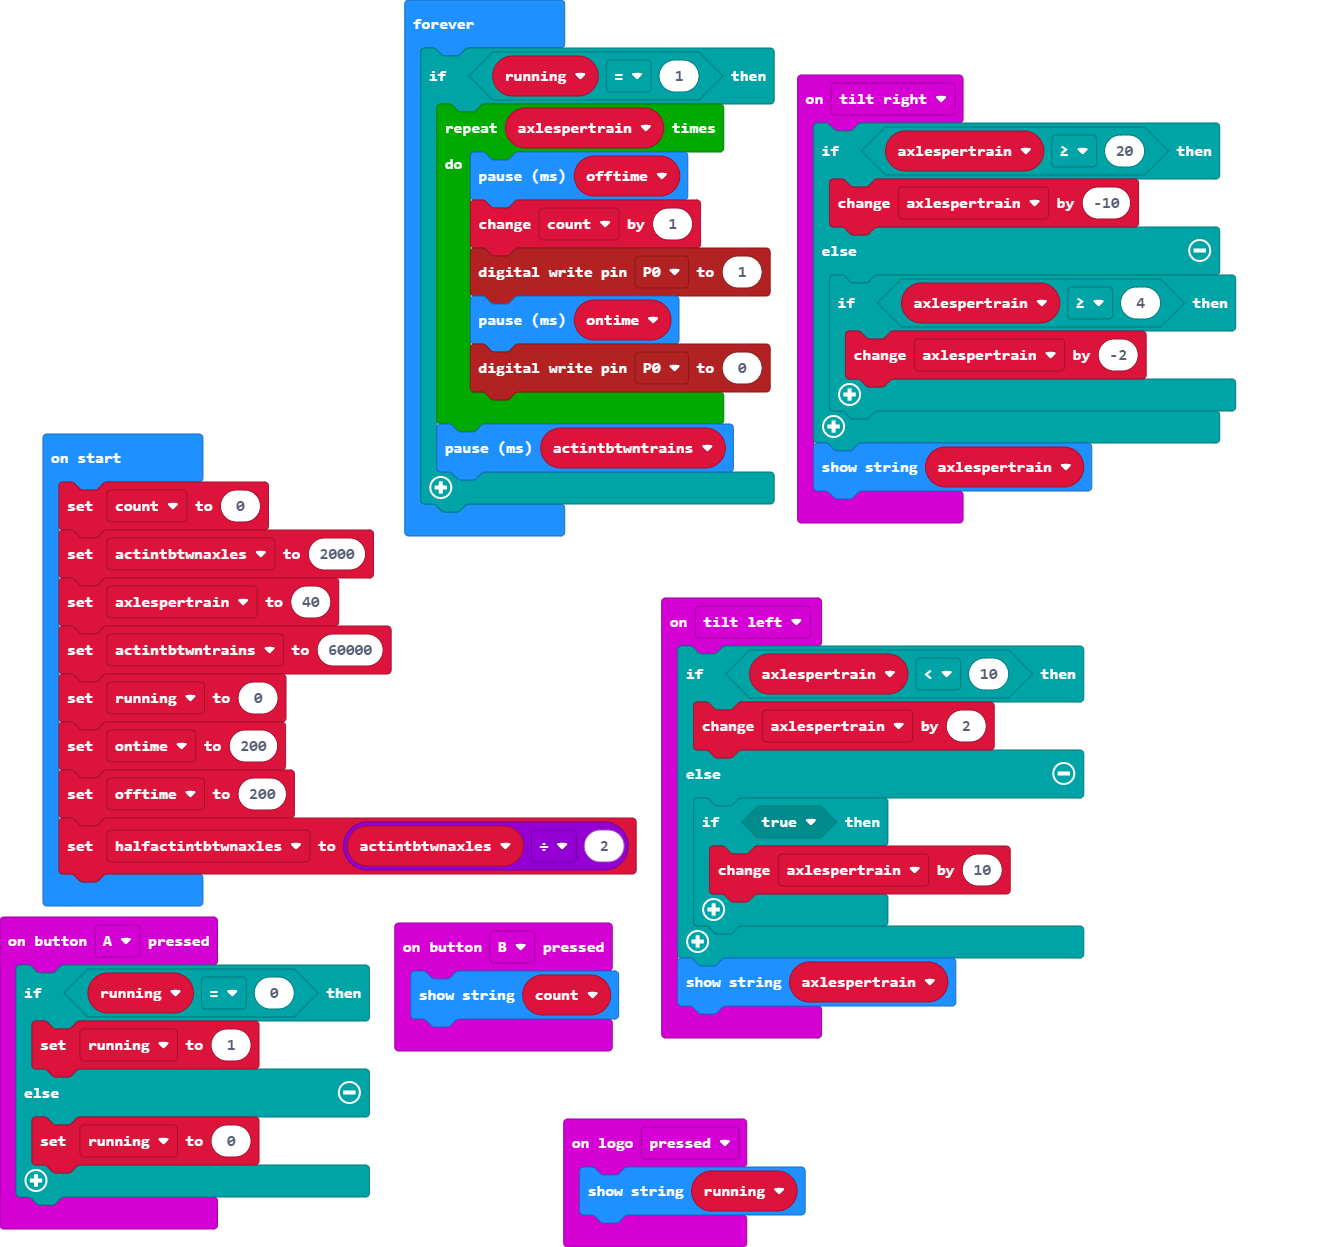
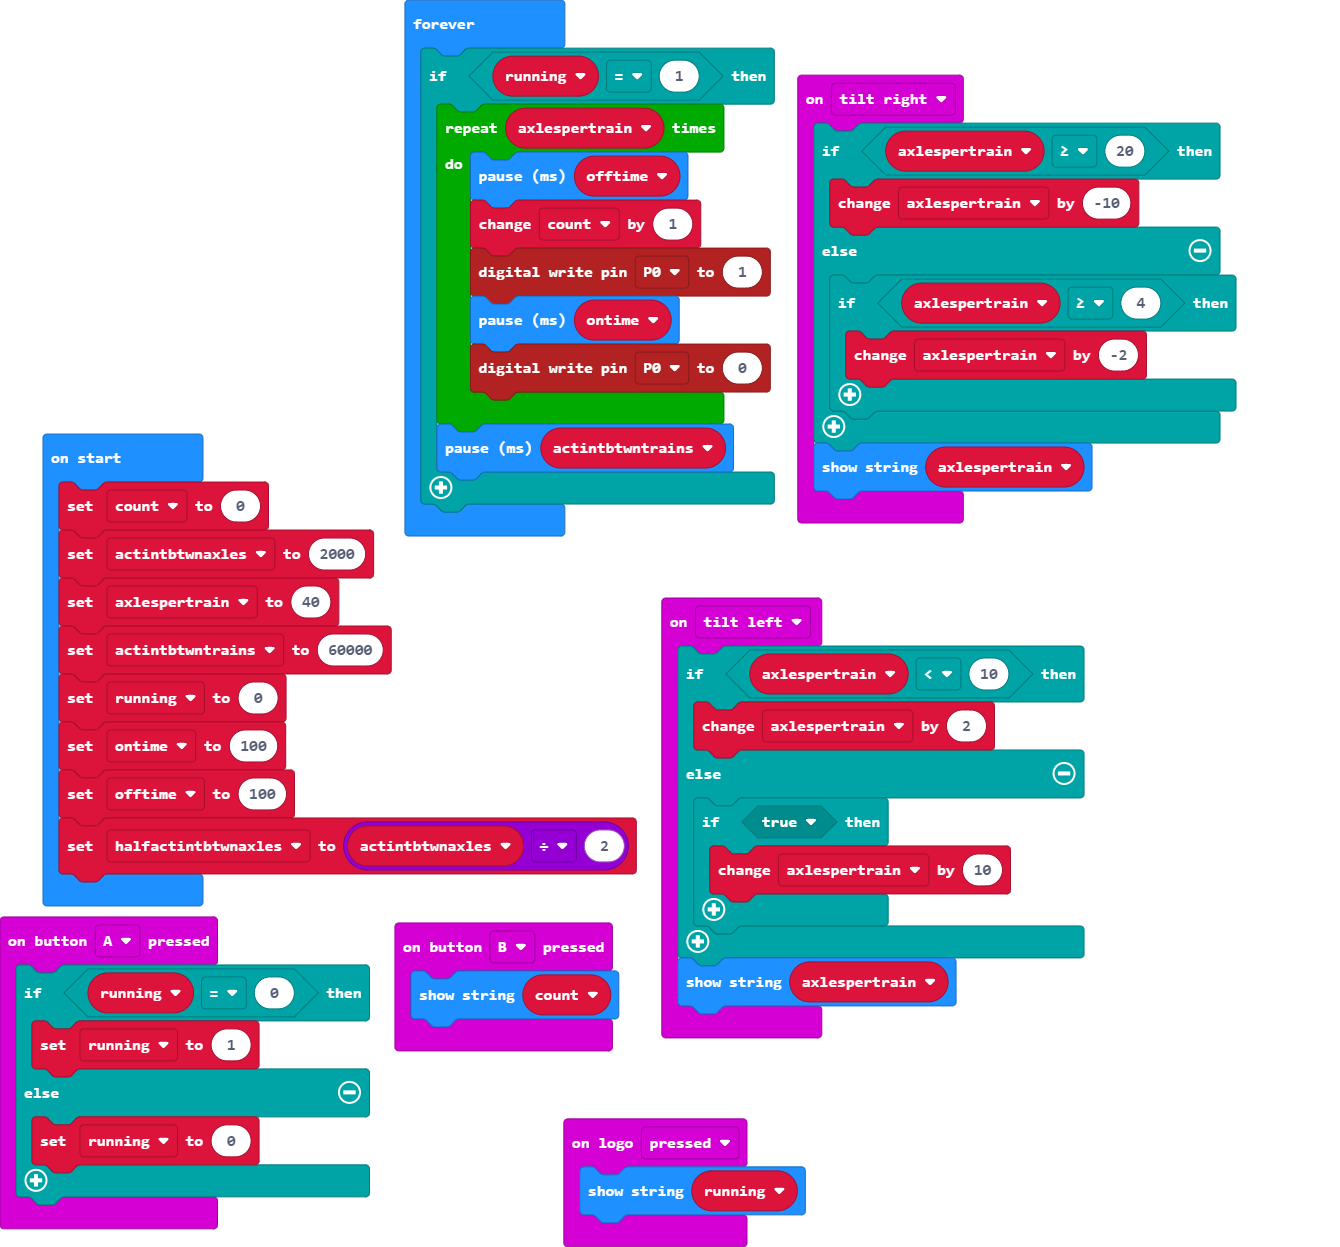
Update pxt.json, main.blocks, main.ts

Changed region(s): [[0.8873, 0.1828, 0.9179, 0.2133], [0.5507, 0.9447, 0.5813, 0.9751]]

diff --git a/main.ts b/main.ts
@@ -39,8 +39,8 @@ let actintbtwnaxles = 2000
 axlespertrain = 40
 let actintbtwntrains = 60000
 running = 0
-let ontime = 200
-let offtime = 200
+let ontime = 100
+let offtime = 100
 let halfactintbtwnaxles = actintbtwnaxles / 2
 basic.forever(function () {
     if (running == 1) {
